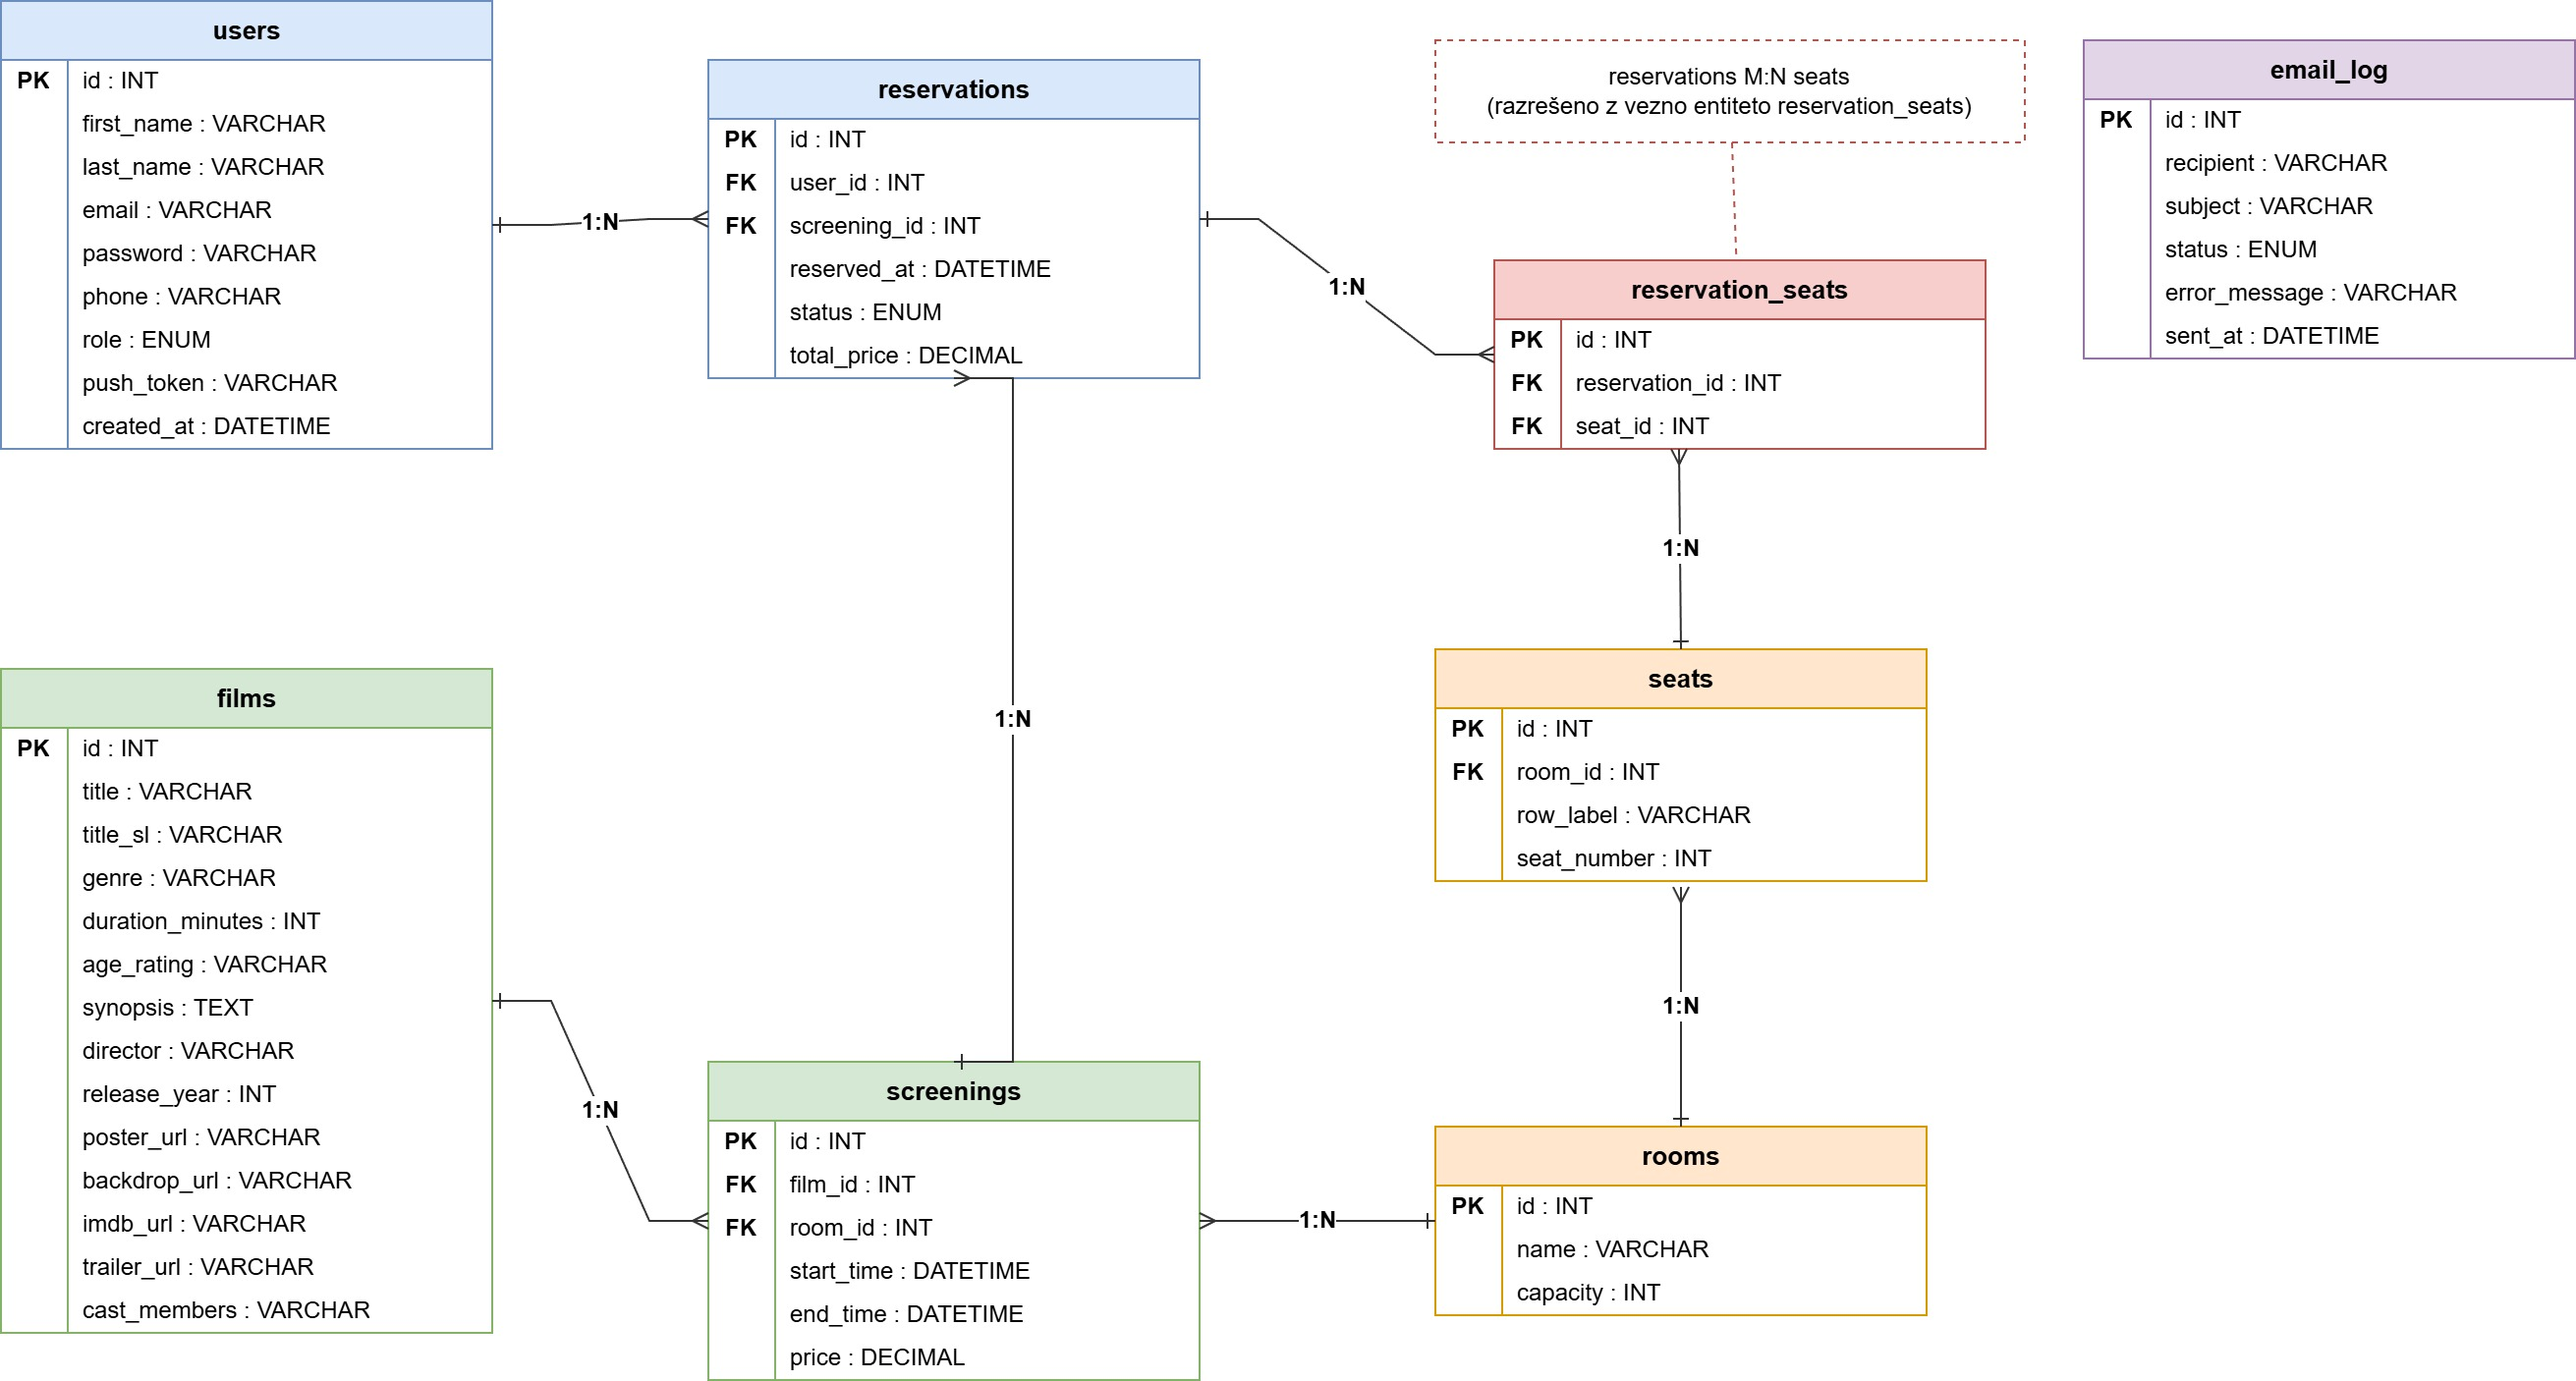
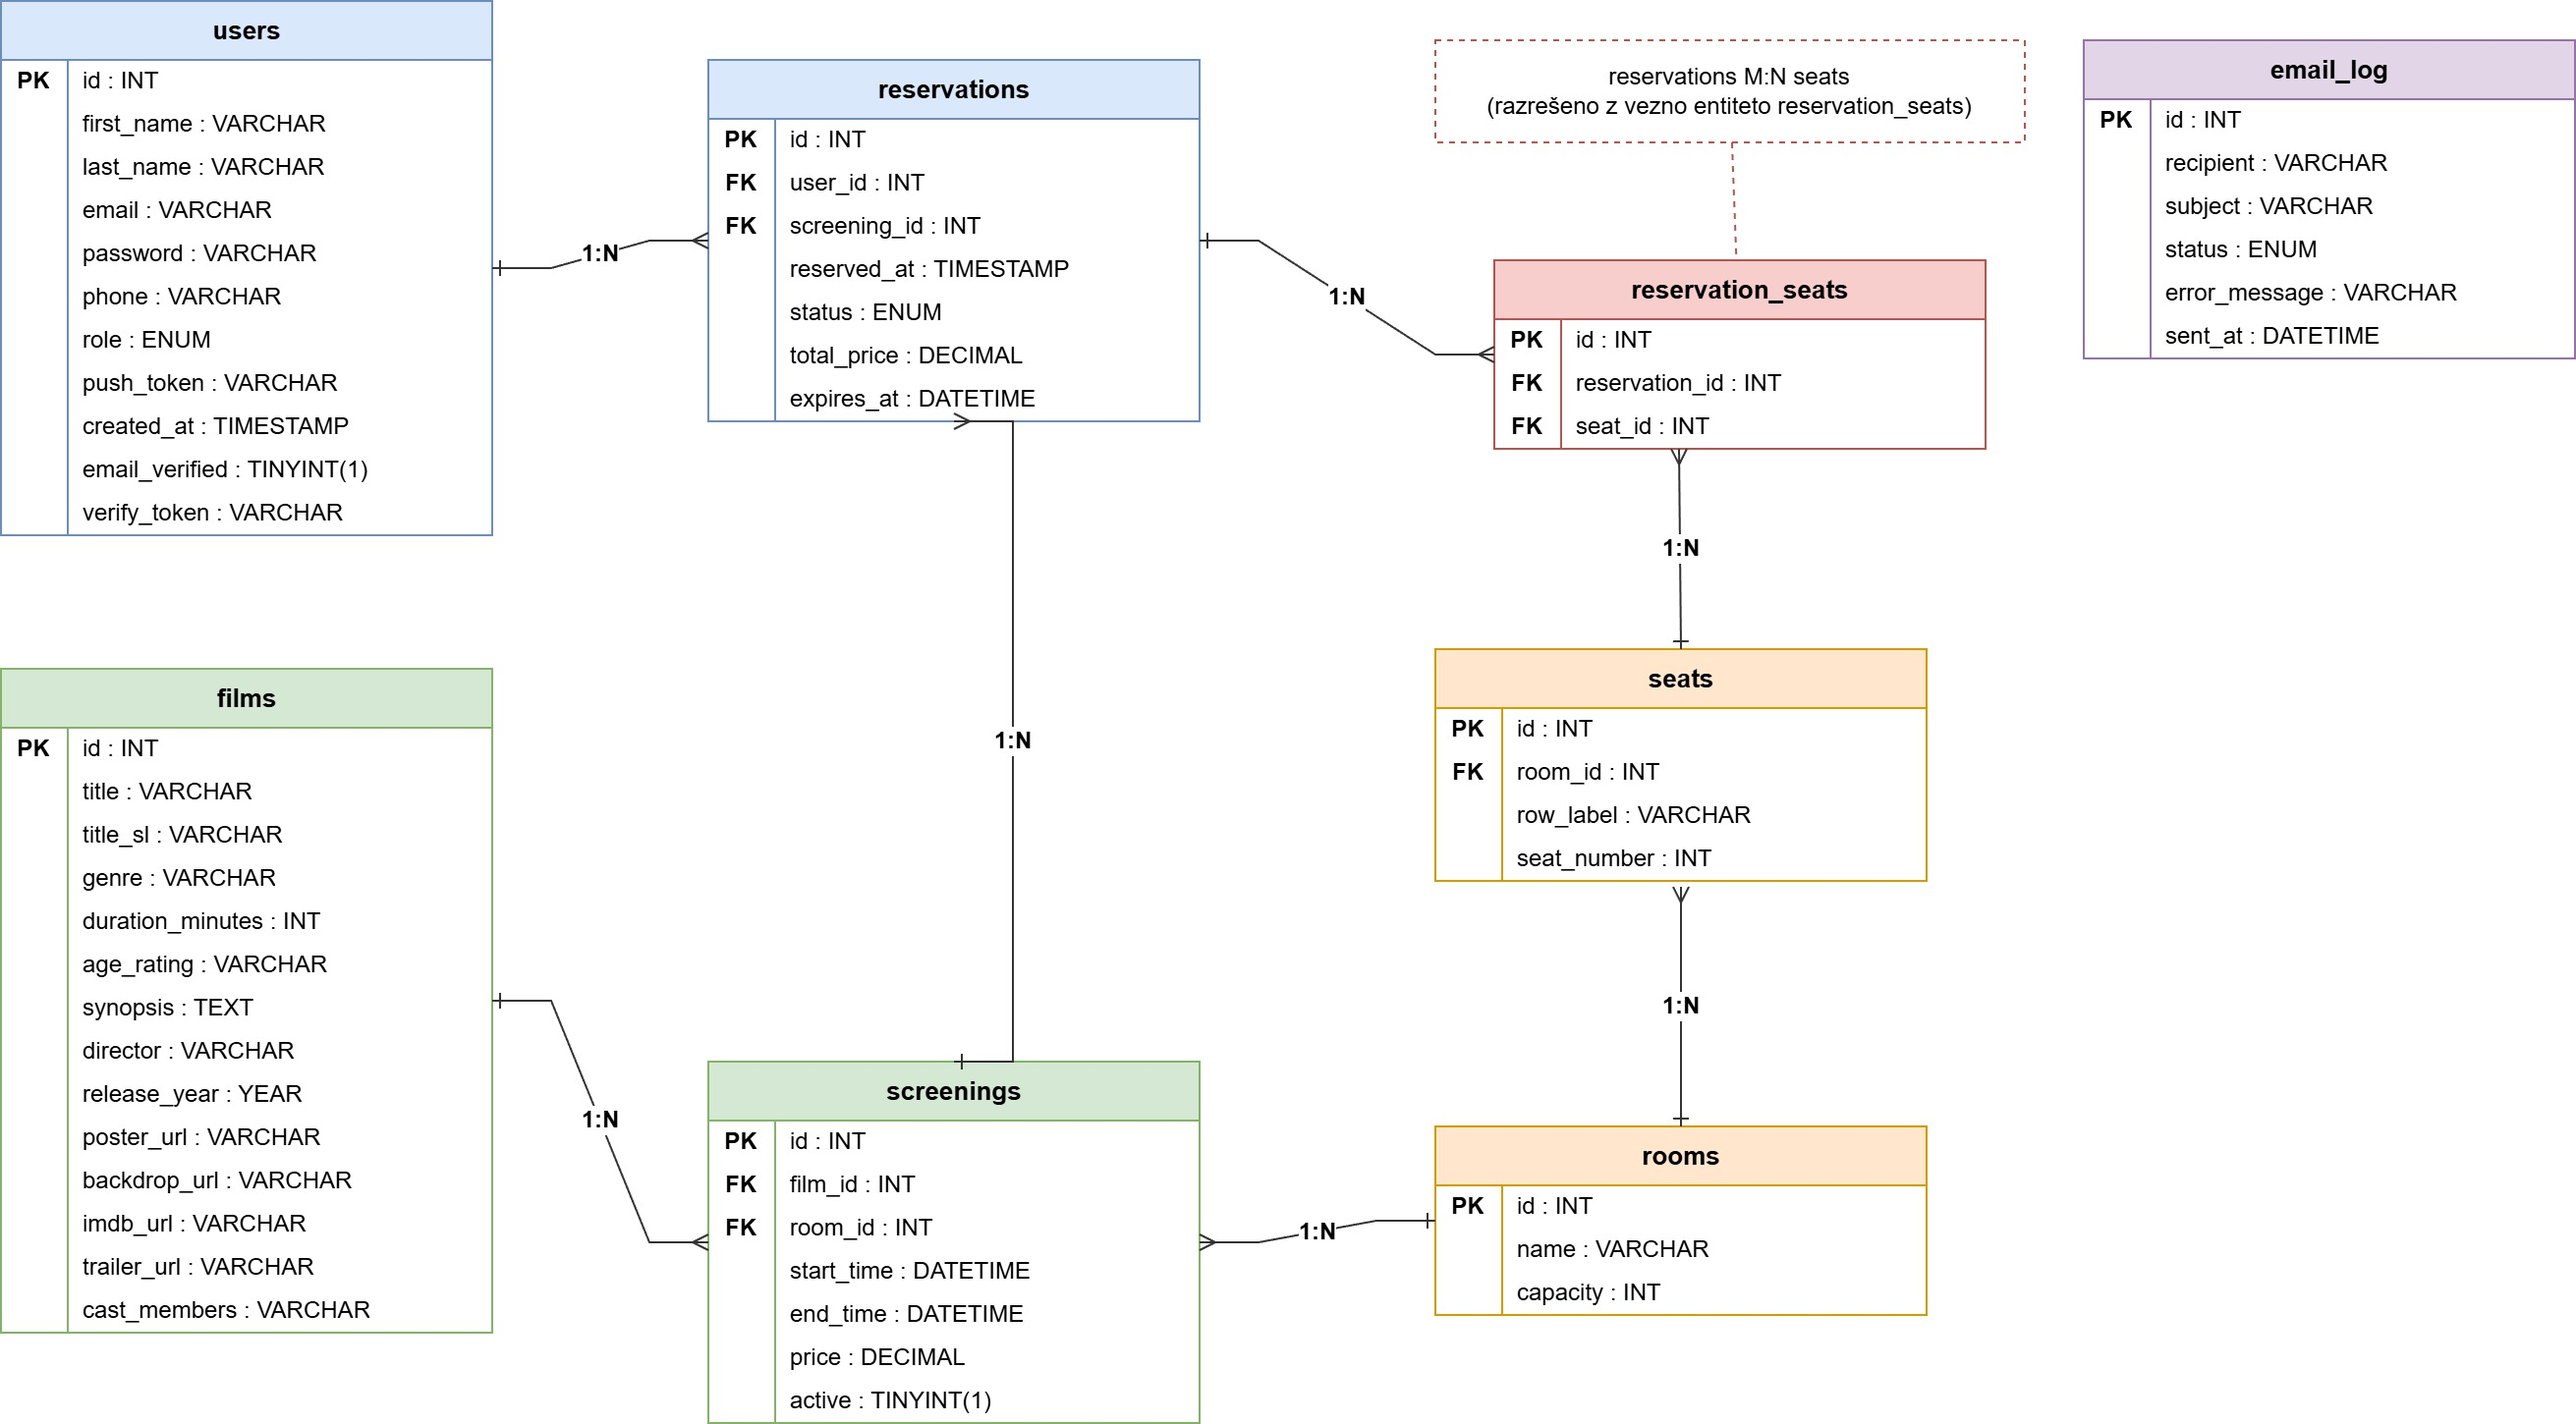
sedez se sprosti ob osvezitvi

diff --git a/src/pages/FilmDetail.js b/src/pages/FilmDetail.js
@@ -11,6 +11,45 @@ const optimizeImg = (url, width) => {
     return url.replace('/original/', `/w${width}/`);
 };
 
+// Shranjevanje zadržane rezervacije med plačilom, da plačilni obrazec preživi
+// osvežitev strani. Stanje komponente se ob osvežitvi izgubi, rezervacija na
+// zaledju pa ostane "pending" do izteka — brez tega uporabnik obrazca ne bi
+// več videl, čeprav je zadržanje sedežev še vedno veljavno.
+const HOLD_KEY = 'kinoplex_payment_hold';
+
+const loadPaymentHold = (screeningId) => {
+    try {
+        const raw = sessionStorage.getItem(HOLD_KEY);
+        if (!raw) return null;
+        const hold = JSON.parse(raw);
+        if (String(hold.screeningId) !== String(screeningId)) return null;
+        if (!hold.expiresAt || new Date(hold.expiresAt).getTime() <= Date.now()) {
+            sessionStorage.removeItem(HOLD_KEY);
+            return null;
+        }
+        return hold;
+    } catch (_err) {
+        return null;
+    }
+};
+
+const savePaymentHold = (hold) => {
+    try {
+        sessionStorage.setItem(HOLD_KEY, JSON.stringify(hold));
+    } catch (_err) {
+        // sessionStorage ni na voljo (npr. zaseben način brskanja) — obnovitev
+        // po osvežitvi preprosto ne bo delovala, na samo plačilo to ne vpliva
+    }
+};
+
+const clearPaymentHold = () => {
+    try {
+        sessionStorage.removeItem(HOLD_KEY);
+    } catch (_err) {
+        // ni česa počistiti
+    }
+};
+
 function FilmDetail() {
     const { id } = useParams();
     const { state } = useLocation();
@@ -50,6 +89,36 @@ function FilmDetail() {
         fetchSeats();
     }, [fetchSeats]);
 
+    // Če je bila rezervacija zadržana (klik na "Nadaljuj na plačilo"), stran pa je
+    // bila medtem osvežena, tukaj poskusimo plačilni obrazec obnoviti iz
+    // sessionStorage namesto da uporabnika pustimo brez obrazca do izteka
+    // desetih minut zadržanja.
+    useEffect(() => {
+        const hold = loadPaymentHold(id);
+        if (!hold) return;
+
+        let preklicano = false;
+
+        (async () => {
+            try {
+                const stripe = await loadStripe(hold.publishableKey);
+                if (preklicano) return;
+                setStripePromise(Promise.resolve(stripe));
+                setClientSecret(hold.clientSecret);
+                setTotalPrice(hold.totalPrice);
+                setExpiresAt(hold.expiresAt);
+                setReservationId(hold.reservationId);
+                setSelectedSeats(hold.seats || []);
+                setShowPayment(true);
+            } catch (_err) {
+                clearPaymentHold();
+            }
+        })();
+
+        return () => { preklicano = true; };
+        // eslint-disable-next-line react-hooks/exhaustive-deps
+    }, [id]);
+
     const toggleSeat = (seat) => {
         if (seat.status === 'taken') return;
         setSelectedSeats(prev => {
@@ -83,6 +152,18 @@ function FilmDetail() {
             setReservationId(response.data.reservation_id);
             setShowPayment(true);
 
+            savePaymentHold({
+                screeningId: id,
+                reservationId: response.data.reservation_id,
+                clientSecret: response.data.clientSecret,
+                totalPrice: response.data.total_price,
+                expiresAt: response.data.expires_at,
+                publishableKey: response.data.publishableKey,
+                seats: selectedSeats.map(s => ({
+                    id: s.id, row_label: s.row_label, seat_number: s.seat_number,
+                })),
+            });
+
         } catch (err) {
             setError(err.response?.data?.message || 'Napaka pri pripravi plačila.');
         } finally {
@@ -91,6 +172,7 @@ function FilmDetail() {
     };
 
     const handlePaymentSuccess = (data) => {
+        clearPaymentHold();
         setSuccess(`Plačilo uspešno! ${selectedSeats.length} sedež/ev rezerviranih.`);
         setShowPayment(false);
         setSelectedSeats([]);
@@ -108,6 +190,7 @@ function FilmDetail() {
                 // Če sprostitev ne uspe, zadržanje poteče samo od sebe
             }
         }
+        clearPaymentHold();
         setShowPayment(false);
         setClientSecret('');
         setExpiresAt(null);
@@ -116,6 +199,7 @@ function FilmDetail() {
     };
 
     const handlePaymentExpire = useCallback(() => {
+        clearPaymentHold();
         setShowPayment(false);
         setClientSecret('');
         setExpiresAt(null);
@@ -213,7 +297,7 @@ function FilmDetail() {
                                     rel="noreferrer"
                                     style={styles.imdbBtn}
                                 >
-                                    IMDB
+                                    IMDb
                                 </a>
                             )}
                             {film?.trailer_url && (
